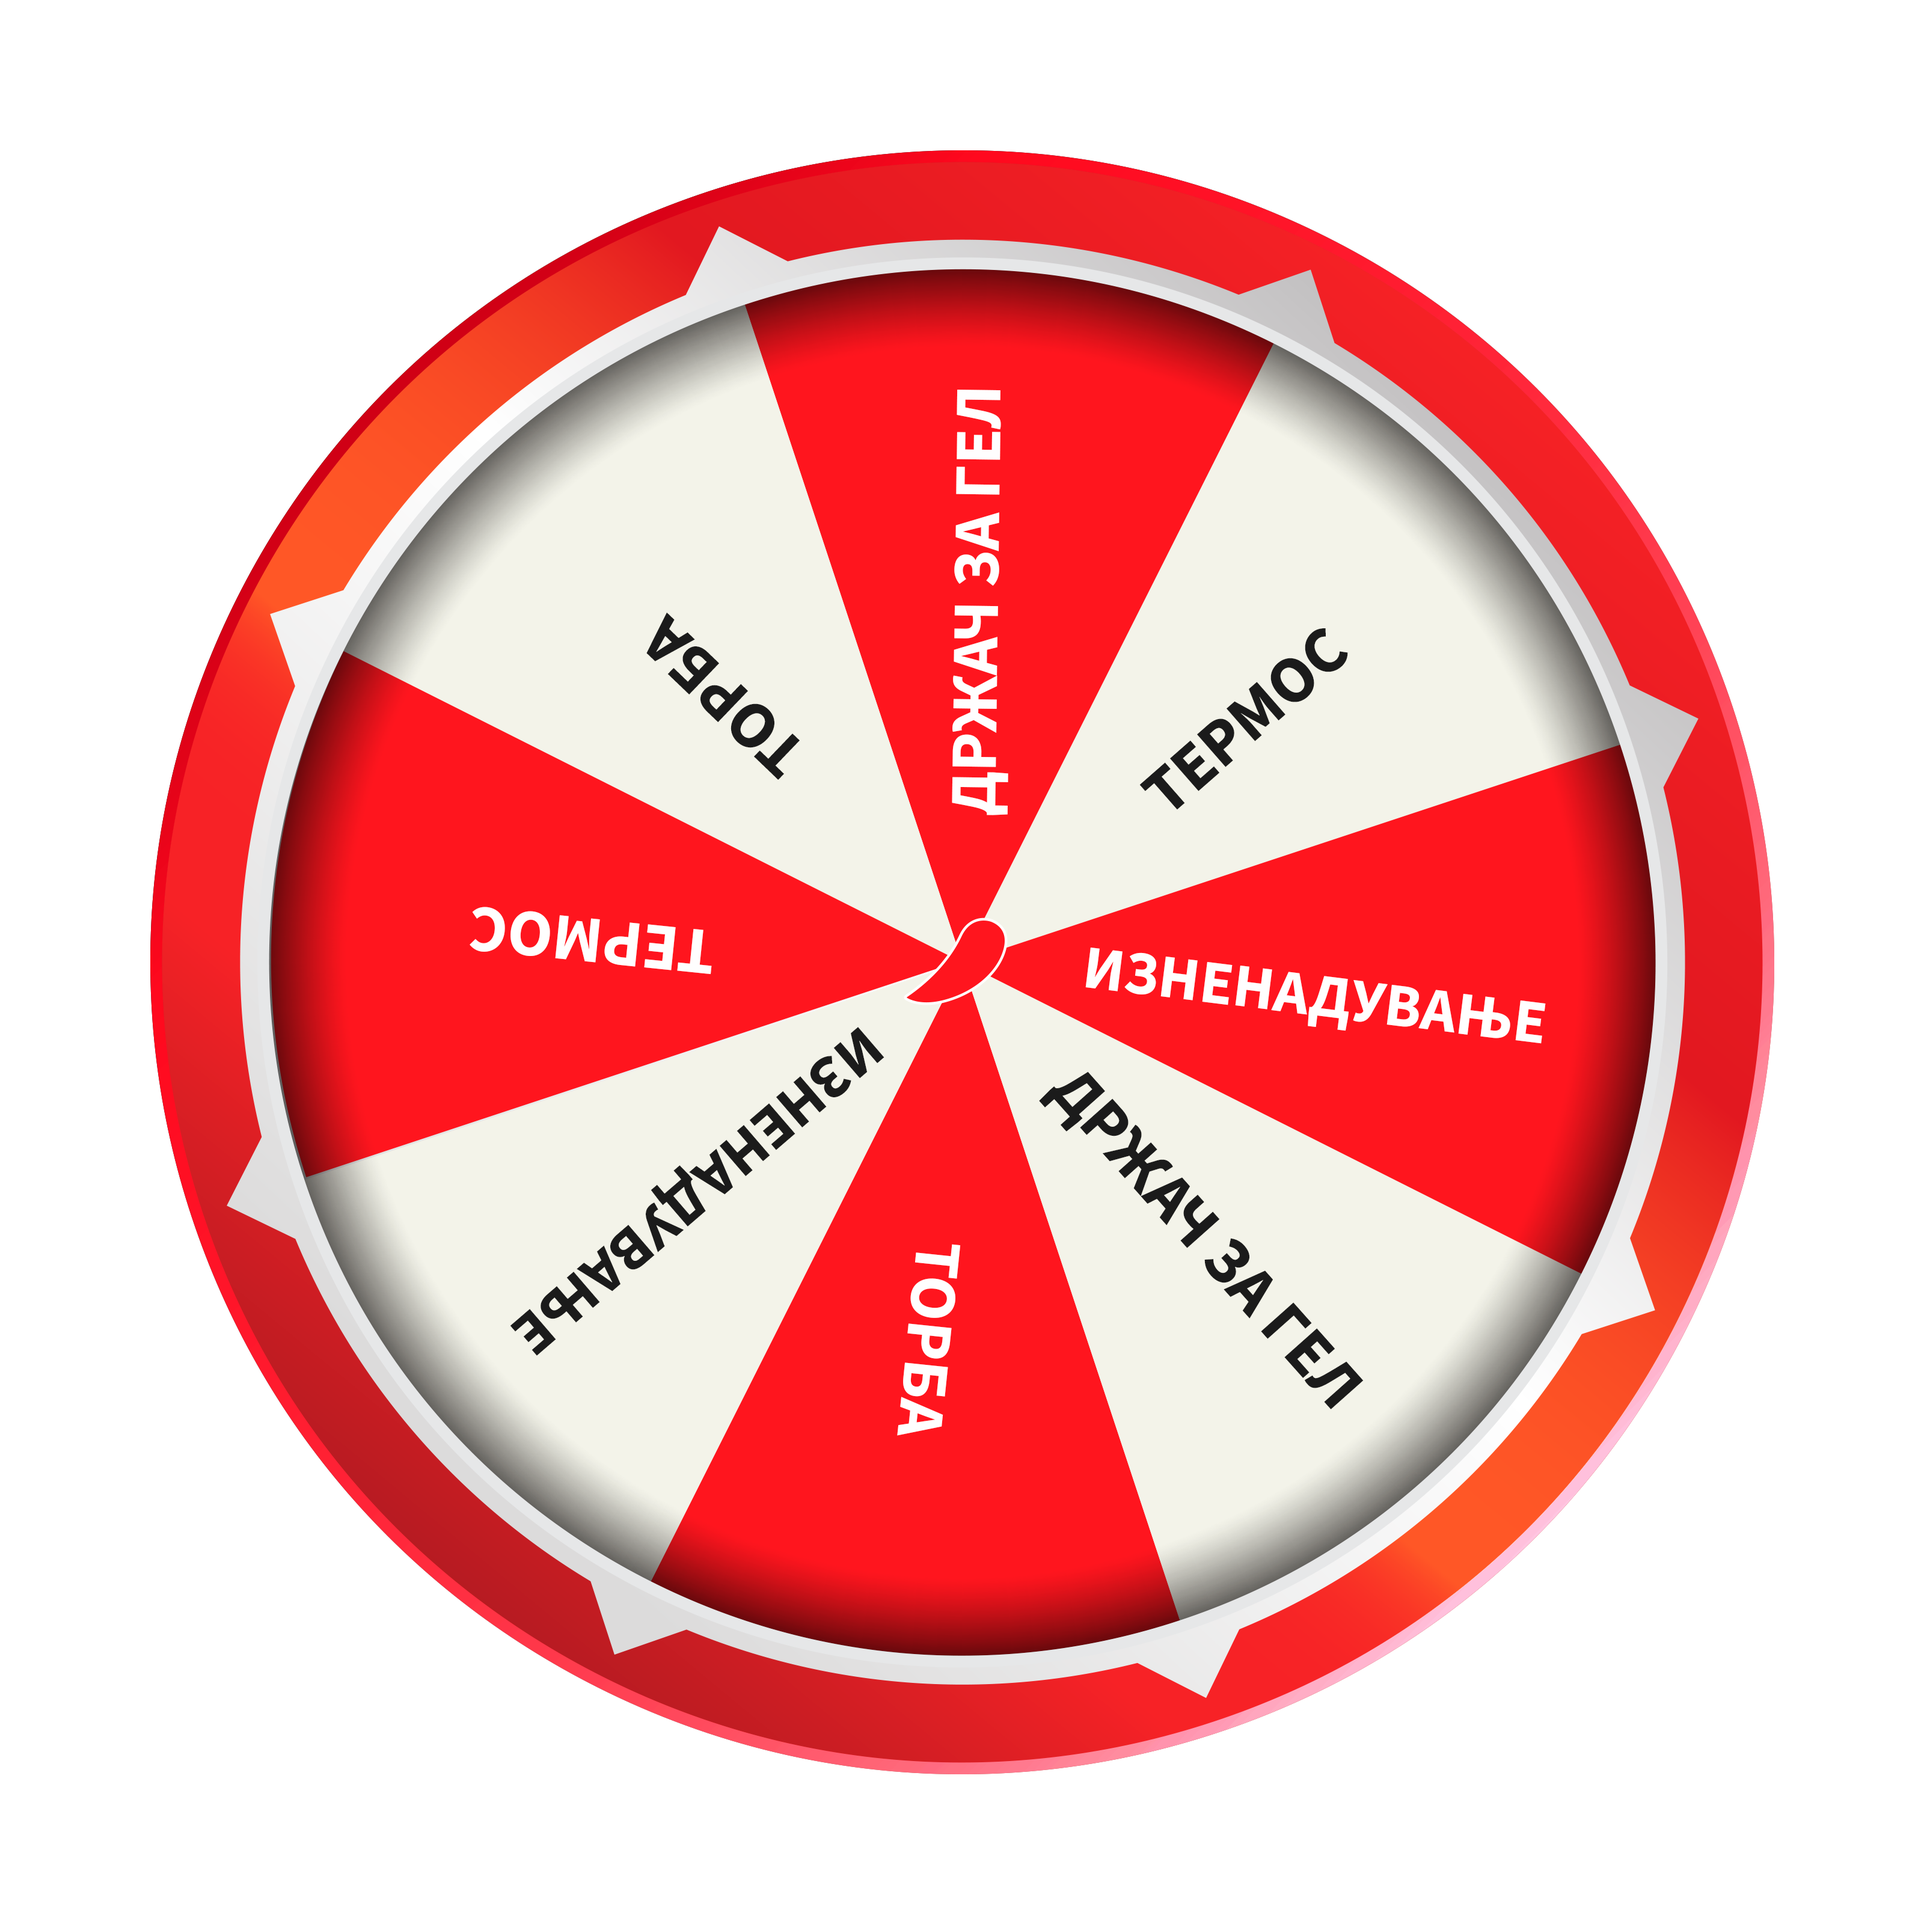
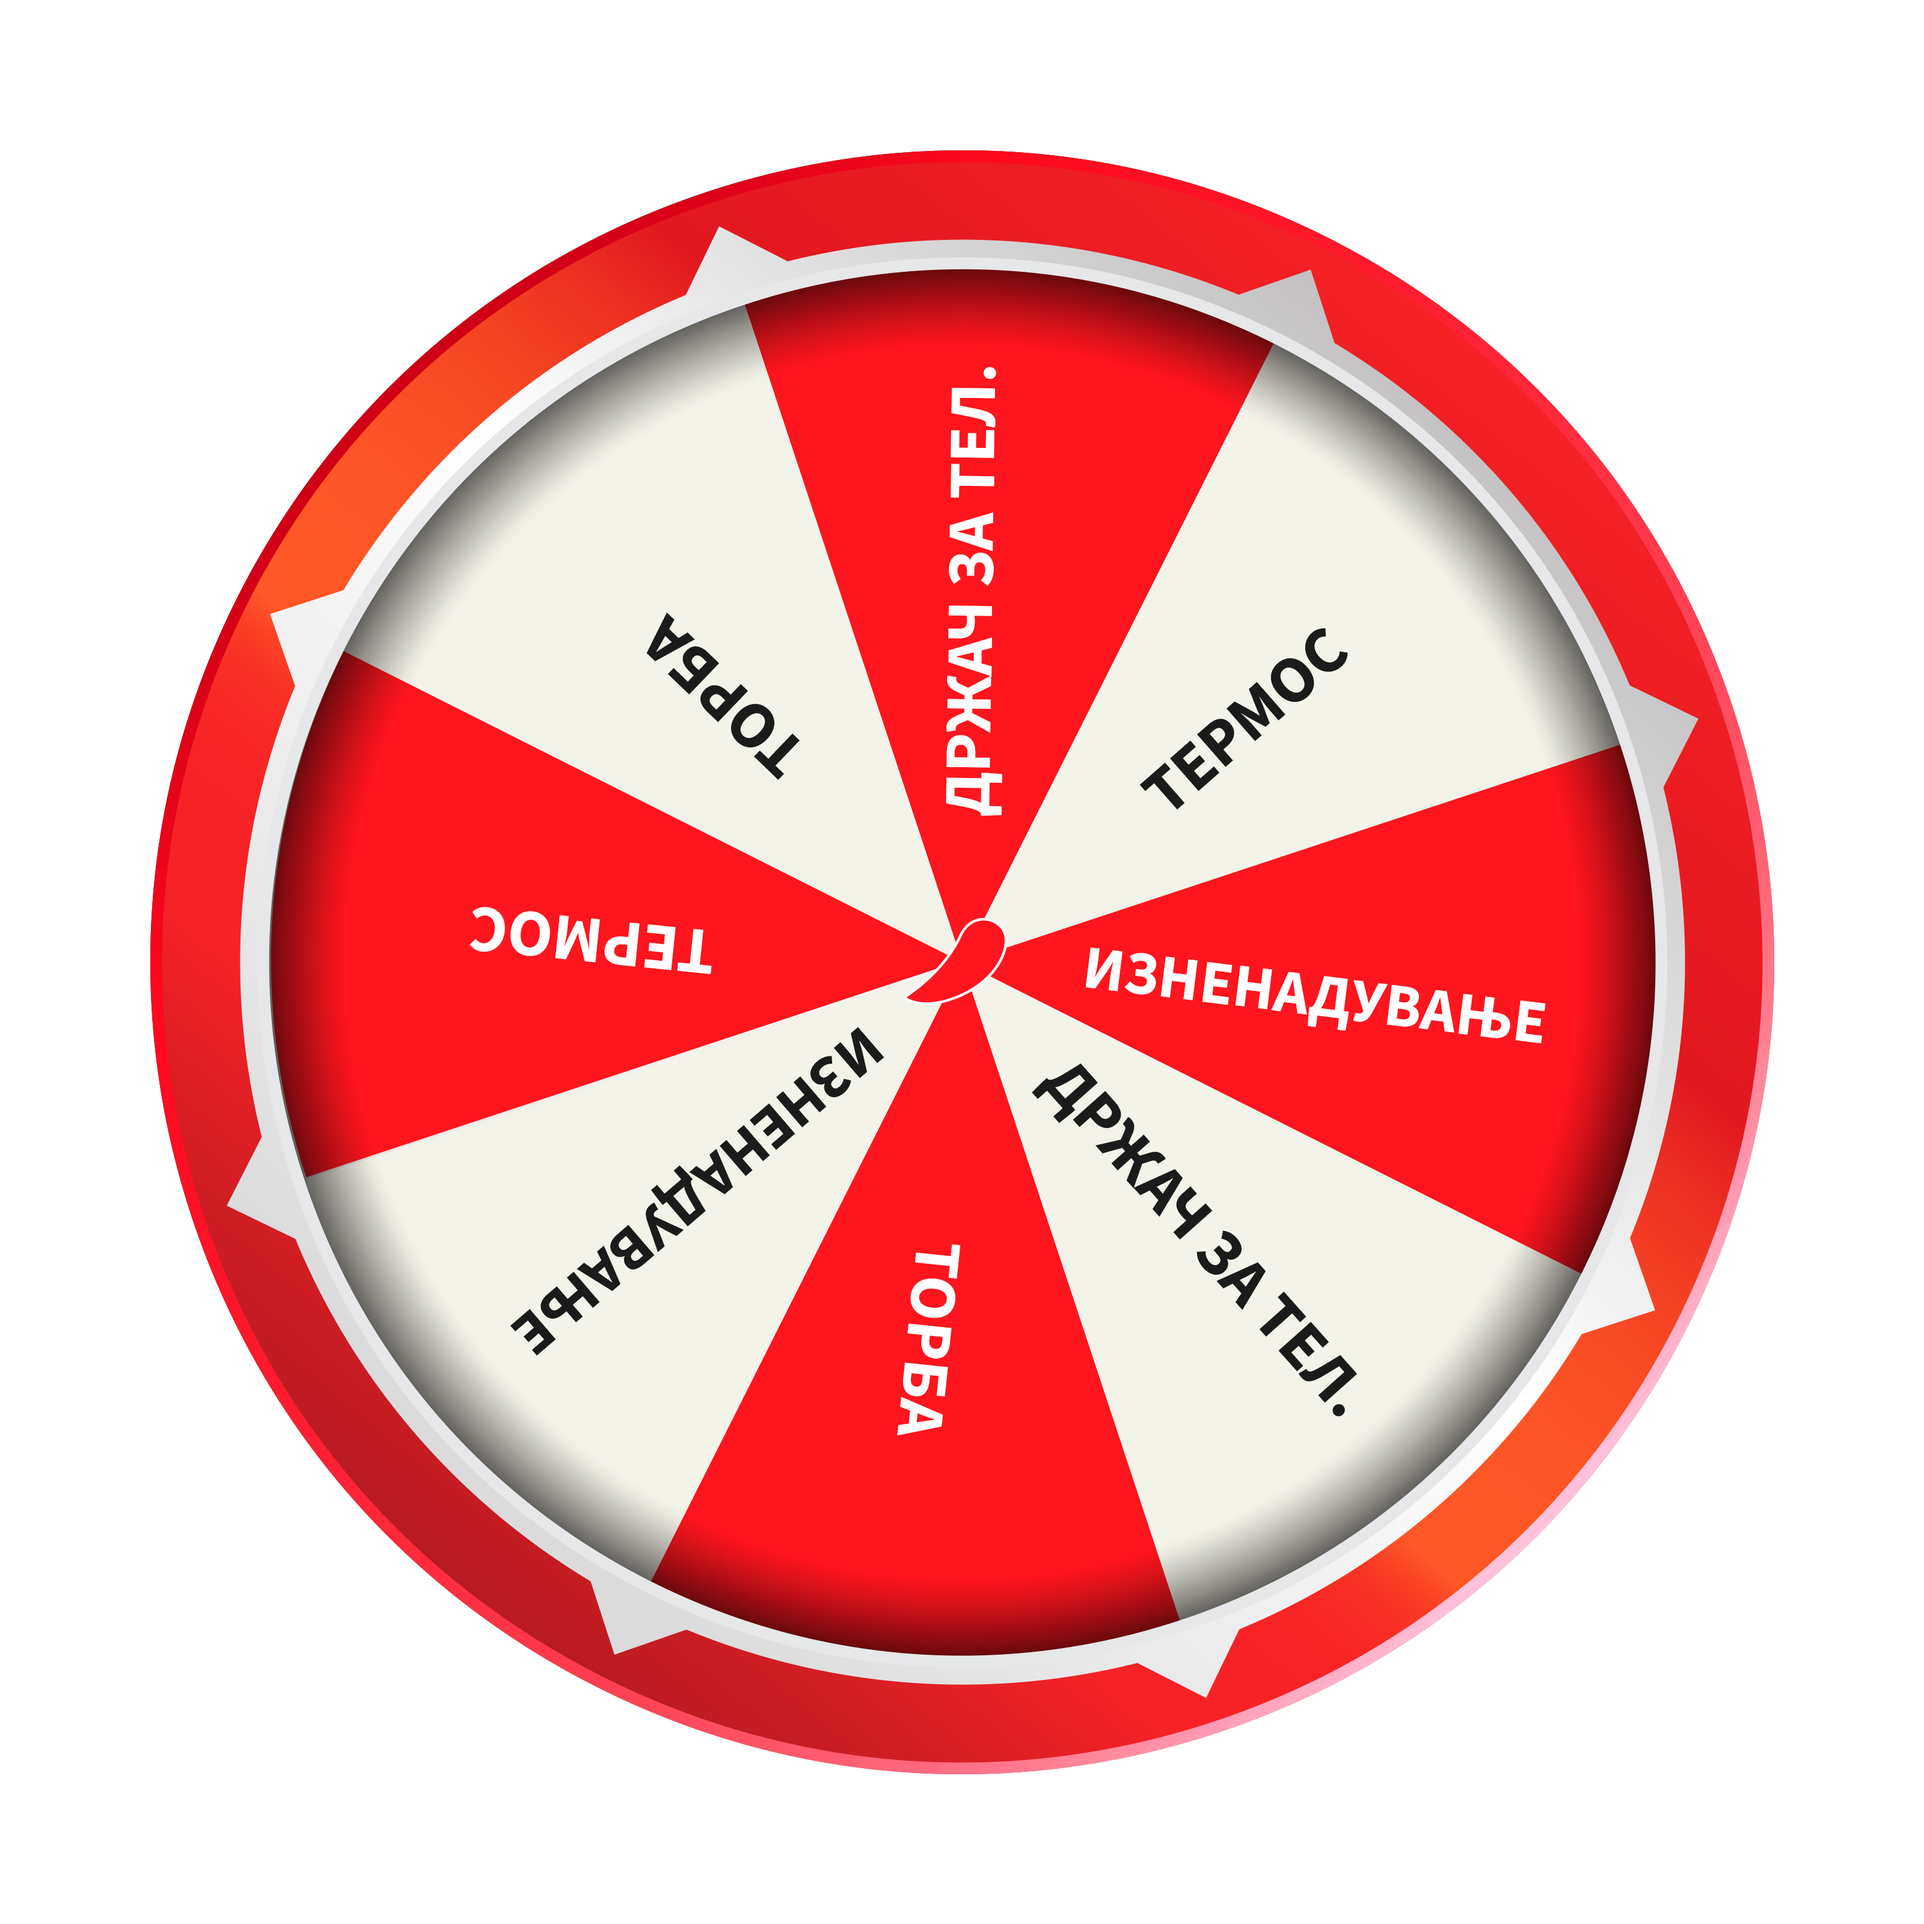
Wheel typo changed and rotation time

Changed region(s): [[0.5312, 0.5625, 0.7188, 0.75], [0.4688, 0.1875, 0.5312, 0.4375]]

diff --git a/main.js b/main.js
@@ -14,7 +14,7 @@ const rewards = {
     end: 63,
   },
   3: {
-    name: "Drzac za gel",
+    name: "Drzac za tel",
     start: 66,
     end: 108,
   },
@@ -39,7 +39,7 @@ const rewards = {
     end: 288,
   },
   8: {
-    name: "Drzac za gel",
+    name: "Drzac za tel",
     start: 291,
     end: 333,
   },
@@ -54,19 +54,19 @@ button.addEventListener("click", () => {
   button.style.pointerEvents = "none";
   let rewardNumber = randomReward({
     1: 0.04,
-    2: 0.17,
-    3: 0.08,
+    2: 0.08,
+    3: 0.17,
     4: 0.17,
-    5: 0.17,
+    5: 0.08,
     6: 0.08,
     7: 0.17,
-    8: 0.08,
+    8: 0.17,
     9: 0.04,
   });
   let reward = rewards[rewardNumber];
   let rewardRange = reward.end - reward.start;
   deg = Math.floor(3600 + reward.start + Math.random() * rewardRange);
-  wheel.style.transition = "all 7s ease-out";
+  wheel.style.transition = "all 5s ease-out";
   wheel.style.transform = `rotate(${deg}deg)`;
 });
 

diff --git a/index.html b/index.html
@@ -19,7 +19,9 @@
     <div class="container">
       <div class="row justify-content-center justify-content-lg-start">
         <div class="col-10 col-sm-8 col-md-6 col-lg-4 col-xl-2 offset-xl-1">
-          <img src="./logo.png" alt="logo" class="logo" />
+          <a href="./index.html">
+            <img src="./logo.png" alt="logo" class="logo" />
+          </a>
         </div>
       </div>
       <div class="row justify-content-center">
